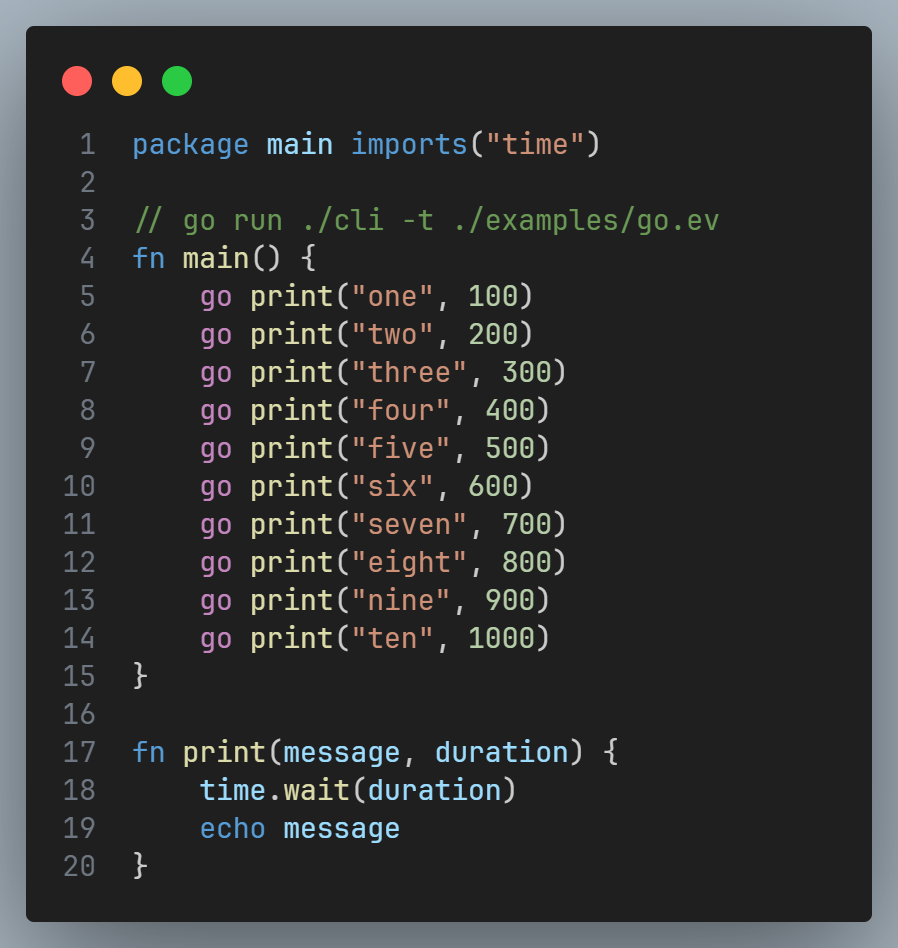
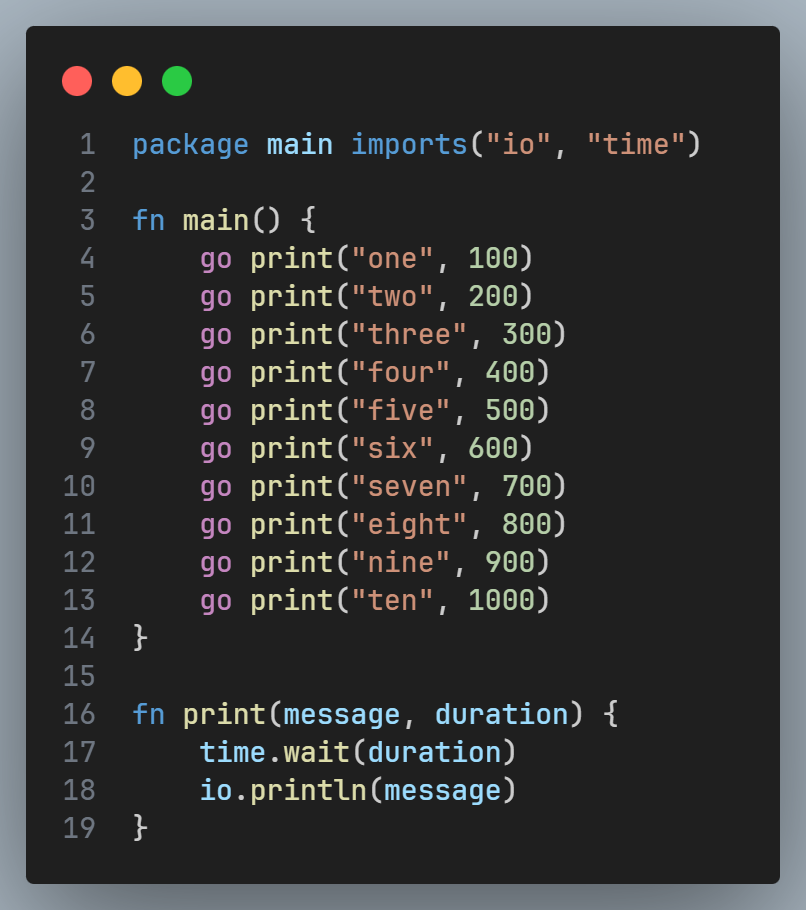
Documentation

diff --git a/README.md b/README.md
@@ -18,9 +18,9 @@ Evie is a dynamically typed programming language written in Go. The goal is to p
     <img src="./docs/images/go.png" width="500" alt="A snippet of Evie code">
 </a>
 
-To test this exact program, run `go run ./cli -t ./examples/go.ev`. Then remove all of the `go` keywords infront of the `print` calls and re-run to see the difference. This is still single threaded by the way. It is concurrent yes. But single threaded and safe. The `go` keyword just schedules it for execution, but they only run when `main` returns or yields via `await`. You can say Evie by default has a [GIL](https://en.wikipedia.org/wiki/Global_interpreter_lock) (Global Interpreter Lock).
+To test this exact program, run `go run ./evie -t ./examples/go.ev`. Then remove all of the `go` keywords infront of the `print` calls and re-run to see the difference. This is still single threaded by the way. It is concurrent yes. But single threaded and safe. The `go` keyword just schedules it for execution, but they only run when `main` returns or yields via `await`. You can say Evie by default has a [GIL](https://en.wikipedia.org/wiki/Global_interpreter_lock) (Global Interpreter Lock).
 
-> The flag `-t` prints the execution time of just Evie, i.e. total time `-` the time it took to compile Evie itself. You could alternatively build Evie first by doing `go build ./cli`, as shown at the bottom of this page.
+> The flag `-t` prints the execution time of just Evie, i.e. total time `-` the time it took to compile Evie itself. You could alternatively build Evie first by doing `go build ./evie`, as shown at the bottom of this page.
 
 > Also you need Go installed of course. But don't worry as it is probably the simplest language to setup. See [here](https://go.dev/doc/install).
 
@@ -49,12 +49,11 @@ I did not want to make the same mistake as Python. That is, not providing a mean
 - Variables ✅
 - Functions ✅
 - Primative types (`number` `bool` `nil`) ✅
-- Reference types (`string` `function`) ✅
-- Control flow (`if` `else`) ✅
-- Control flow (`switch` `while`) ✅
-- Control flow (`for`) ❌
-- Control flow (`break` `continue`) ✅
-- Operators (`+` `-` `*` `/` `%` `==` `<` `>`) ✅
+- Reference types (`string` `function` `object`) ✅
+- Control flow (`if` `else` `while` `break` `continue`) ✅
+- Control flow (`for` `switch`) ❌
+- Operators (`+` `-` `*` `/` `%` `==` `<` `>`, `?`) ✅
+- Operators (`!`, `&&`, `||`) ❌
 - Concurrency (basics work but needs *polishing*) ⏳
 - Scoping (global, function, block) ✅
 - Error handling (exceptions) ⏳
@@ -80,16 +79,16 @@ Why `fib(35)`? Because Evie barely has a standard library so micro-benchmarks is
 - Conditional logic
 
 # Setup
-All of these exist in the [examples](./examples) directory. To build the evie cli you can do:
+All of these exist in the [examples](./examples) directory. To build evie you can do:
 1. First install go from [here](https://go.dev/doc/install)
 2. Then git clone this repo
-3. Build the standalone cli
+3. Build evie
 4. Use it like any other language
 ```
 git clone https://github.com/hxkhan/evie.git
 cd evie
-go build ./cli
-time ./cli ./examples/fib.ev
+go build ./evie
+time ./evie ./examples/fib.ev
 ```
 
 To benchmark the other languages, you can grab your own versions from their respective websites. For example; if you have python installed then just do `time python ./examples/fib.py`, you might have to change `python` for `python3`.
